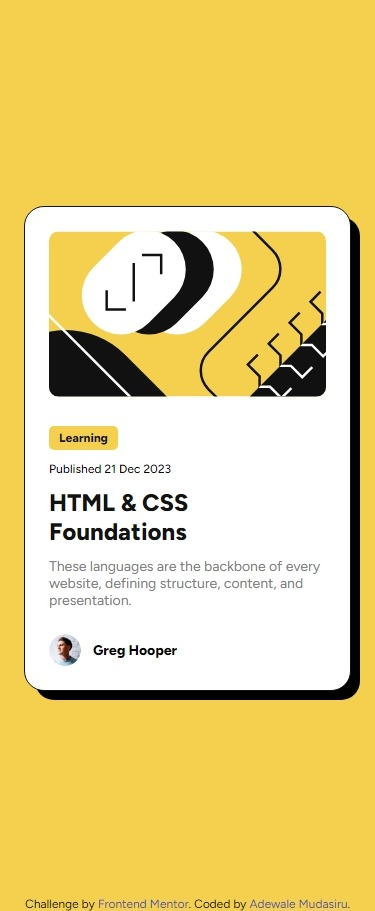
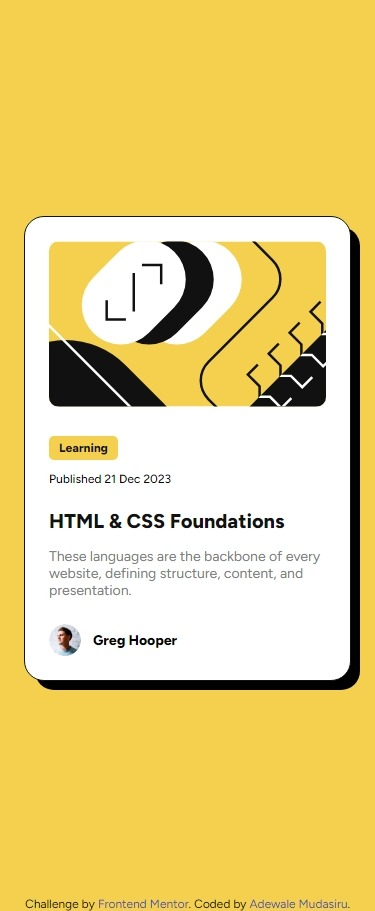
Added github link

Changed region(s): [[0.0587, 0.2151, 0.968, 0.7684]]

diff --git a/styles.css b/styles.css
@@ -130,7 +130,7 @@ body {
         -moz-box-shadow: 10px 10px 0px -1px rgba(0,0,0,1);
     }
 
-    .content__title {
+    .content__title a {
         font-size: 1.25rem;
     }
 

diff --git a/README.md b/README.md
@@ -27,7 +27,7 @@ Mobile Screenshot <br />
 ### Links
 
 - Solution URL: [Github](https://github.com/adewalemudasiru/Blog-Preview-Card)
-- Live Site URL: [SolutionPreview](url)
+- Live Site URL: [SolutionPreview](https://adewalemudasiru.github.io/Blog-Preview-Card/)
 
 ## My process
 
